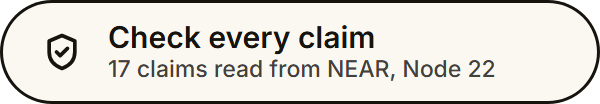
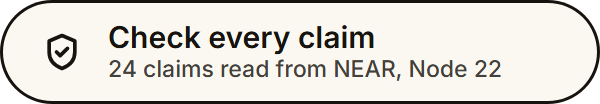
docs: second review of the address docs, badge count
A second review (2 lenses, 2 skeptics per finding) of the doc fixes kept
7 findings and split on 3; all are fixed:

- quickstart, clean-transfer-report: the CLI the page runs (0.1.0)
  still reads the address through the RPC; said where it is claimed.
- rpc-and-finality: the address is the one answer not from an RPC.
- README step 2 and security.mdx: "deployed and locked the Satchel
  contract"; the step 2 output is dated 2026-11-10.
- The package README and the docs say which satchel is yours still
  comes from the NEAR RPC, or for a mint from the wallet.
- CHANGELOG: the older "not fixed" note now says the address was
  derived locally since.
- The token page caption speaks of this satchel's address only.
- The README badge said 17 claims; it now says 24 (13 + 11), re-rendered
  from docs/assets/src/buttons.html.

Changed region(s): [[0.18, 0.5481, 0.84, 0.7788]]

diff --git a/docs/assets/src/buttons.html b/docs/assets/src/buttons.html
@@ -20,7 +20,7 @@
 <body>
   <a id="try" class="dark"><svg viewBox="0 0 24 24" fill="none" stroke="currentColor" stroke-width="2" stroke-linecap="round" stroke-linejoin="round"><circle cx="12" cy="12" r="9"/><path d="M3 12h18M12 3a14 14 0 0 1 0 18M12 3a14 14 0 0 0 0 18"/></svg><span><b>Try it live</b><small>satchelnft.xyz · reading needs no wallet</small></span></a>
   <a id="evaluate" class="gold"><svg viewBox="0 0 24 24" fill="none" stroke="currentColor" stroke-width="2" stroke-linecap="round" stroke-linejoin="round"><circle cx="12" cy="13" r="8"/><path d="M12 9v4l2.5 2.5M9 2h6"/></svg><span><b>Evaluate in 5 minutes</b><small>no wallet, no key, no account</small></span></a>
-  <a id="claims" class="line"><svg viewBox="0 0 24 24" fill="none" stroke="currentColor" stroke-width="2" stroke-linecap="round" stroke-linejoin="round"><path d="M9 12l2 2 4-4"/><path d="M12 3l7 3v6c0 4.5-3 7.5-7 9-4-1.5-7-4.5-7-9V6z"/></svg><span><b>Check every claim</b><small>17 claims read from NEAR, Node 22</small></span></a>
+  <a id="claims" class="line"><svg viewBox="0 0 24 24" fill="none" stroke="currentColor" stroke-width="2" stroke-linecap="round" stroke-linejoin="round"><path d="M9 12l2 2 4-4"/><path d="M12 3l7 3v6c0 4.5-3 7.5-7 9-4-1.5-7-4.5-7-9V6z"/></svg><span><b>Check every claim</b><small>24 claims read from NEAR, Node 22</small></span></a>
   <script>document.getElementById(location.hash.slice(1) || "try").classList.add("on");</script>
 </body>
 </html>

diff --git a/web/src/components/token-view.tsx b/web/src/components/token-view.tsx
@@ -85,7 +85,7 @@ export function TokenView({ tokenId }: { tokenId: string }) {
             </div>
             <p className="mt-1 text-xs text-muted">
               Derived in your browser from the MPC network&apos;s root key, the contract and the path{" "}
-              <span className="font-mono">{view.path}</span>. No RPC answer goes into it.
+              <span className="font-mono">{view.path}</span>, so no RPC answer can change this satchel&apos;s address.
             </p>
             <h2 className="mt-5 font-display text-xl font-semibold">What&apos;s inside</h2>
             <div className="mt-3">

diff --git a/README.md b/README.md
@@ -16,7 +16,7 @@
 
 <a href="https://satchelnft.xyz"><img src="docs/assets/readme/try-it-live.png" alt="Try it live: satchelnft.xyz, reading needs no wallet" height="48"></a>
 <a href="#how-to-evaluate-satchel-in-5-minutes"><img src="docs/assets/readme/evaluate-in-5-minutes.png" alt="Evaluate in 5 minutes: no wallet, no key, no account" height="48"></a>
-<a href="AGENTS.md#check-the-claims"><img src="docs/assets/readme/check-every-claim.png" alt="Check every claim: 17 claims read from NEAR, with Node 22" height="48"></a>
+<a href="AGENTS.md#check-the-claims"><img src="docs/assets/readme/check-every-claim.png" alt="Check every claim: 24 claims read from NEAR, with Node 22" height="48"></a>
 
 **[Live app](https://satchelnft.xyz)** · **[Evaluate in 5 minutes](#how-to-evaluate-satchel-in-5-minutes)** · **[What is shipped](#status)** · **[On-chain proof](#on-chain-proof)** · **[Built on NEAR](#built-on-near)** · **[Threat model](docs/THREAT_MODEL.md)** · **[For AI agents](AGENTS.md)** · **[Security](SECURITY.md)** · **[Changelog](CHANGELOG.md)**
 
@@ -77,7 +77,8 @@ and with it the address on every one of those chains.
 
 You need Node.js 22 or later and git. No wallet, no key and no account: every step reads public NEAR
 and Sepolia data through public RPC nodes. The timings and outputs below are from a fresh clone on a
-Windows 10 laptop with Node 24.12, on 2026-11-09.
+Windows 10 laptop with Node 24.12, on 2026-11-09; the claim checker's output in step 2 is from
+2026-11-10.
 
 **Before you install anything: try to cheat a buyer in your browser.** Open
 [satchelnft.xyz/#examples](https://satchelnft.xyz/#examples) and pick **Keep a signed withdrawal**.
@@ -100,7 +101,7 @@ the record changed).
 2. **Check both deployments against the chain.** No install.
    [`scripts/check-claims.mjs`](scripts/check-claims.mjs) reads the contract's keys, code hash,
    NEP-330 metadata and MPC signer, and the MPC contract's root key and the key it derives for each
-   satchel, from a public NEAR RPC node, and the transactions that deployed
+   satchel, from a public NEAR RPC node, and the transactions that deployed the Satchel contract
    and locked it from an archival one. On testnet it also reads the calls the contract refused; on
    mainnet, satchel #1's mint and first signature, and that send on Base from a public Base node
    (set `BASE_RPC` to use your own). Each run took 5 to 17 s here, most of it waiting on the archival
@@ -294,7 +295,7 @@ What exists at this commit, and what does not yet.
 | The first satchel on mainnet: funded on Base, minted, one send from it in the app, its report clean | **Shipped** on 2026-11-09: satchel #1, 0.00195 ETH on Base, 0.0001 ETH sent from it at satchelnft.xyz, `PROVABLY CLEAN`. The owner signed every transaction | [`deployments/mainnet-first-send.json`](deployments/mainnet-first-send.json) |
 | npm package `satchel-nft`: the report as a library and a CLI (`npx -y satchel-nft@0.1.0 verify 1`), with read commands and signing commands that use the near CLI's keychain | **Shipped** on npm as [`satchel-nft` 0.1.0](https://www.npmjs.com/package/satchel-nft), published by the owner on 2026-11-09 from commit `728ed74`, without npm provenance ([how to check it](docs/THREAT_MODEL.md#what-satchel-trusts)). The web app runs on the same code. `npx -y satchel-nft@0.1.0 verify 1` in an empty folder printed `PROVABLY CLEAN`. CI packs the package, installs the tarball in an empty project and runs it, then runs the release from npm on Linux. Every sign command ran on testnet, and an adversarial review of its signing found no way to make it send a transaction other than the one it shows | [`packages/satchel-nft`](packages/satchel-nft), [`deployments/testnet-cli.json`](deployments/testnet-cli.json) |
 | What's inside a satchel: its USDC, USDT and WETH balances beside the native ones on each chain, and a timeline of mints, owners, signatures and sales on its page | **Shipped** on 2026-11-10. Above the report, a satchel's page shows its native balance on each of the network's 8 chains, and its USDC, USDT and WETH where a deployment is listed: 22 on the mainnets, 11 on the testnets (no testnet USDT). Each comes from Circle, Tether, USDT0 or the chain itself, except WETH on Sepolia, from Uniswap's deployment list; the sources are in `contents.ts`. After `npm ci` and `npm run build -w satchel-nft`, `node scripts/check-tokens.mjs` reads every one's code, symbol and decimals back from its chain. Below the report, its history: mint, transfers, signatures, listings and sales from FastNEAR's transaction index, each linked to its transaction. The report reads neither. In the CLI, `show` prints the same balances and `history <id>` the timeline; both come with the next npm release, not 0.1.0 | [`contents.ts`](packages/satchel-nft/src/contents.ts), [`history.ts`](packages/satchel-nft/src/history.ts), [`check-tokens.mjs`](scripts/check-tokens.mjs) |
-| A satchel's address derived without an RPC | **Shipped** on 2026-11-10. The app and the CLI compute each satchel's key from the MPC network's root key, pinned in the package, the contract and the path, as the MPC contract does, so no RPC answer changes a satchel's address. Which satchel is yours (the id a mint returns, the tokens you own) still comes from the NEAR RPC. The tests derive the keys of all 8 satchels and get what the MPC contract's `derived_public_key` returned, and `check-claims.mjs` compares the pinned root key with the chain. `satchel-nft` 0.1.0 on npm still reads the address through the NEAR RPC; the next release derives it | [`evm.ts`](packages/satchel-nft/src/evm.ts), [`derived-keys.json`](packages/satchel-nft/src/__fixtures__/derived-keys.json) |
+| A satchel's address derived without an RPC | **Shipped** on 2026-11-10. The app and the CLI compute each satchel's key from the MPC network's root key, pinned in the package, the contract and the path, as the MPC contract does, so no RPC answer changes a satchel's address. Which satchel is yours (the id a mint returns, the tokens you own) still comes from the NEAR RPC, or for a mint from the wallet. The tests derive the keys of all 8 satchels and get what the MPC contract's `derived_public_key` returned, and `check-claims.mjs` compares the pinned root key with the chain. `satchel-nft` 0.1.0 on npm still reads the address through the NEAR RPC; the next release derives it | [`evm.ts`](packages/satchel-nft/src/evm.ts), [`derived-keys.json`](packages/satchel-nft/src/__fixtures__/derived-keys.json) |
 | Demo kit: the video script, the X post and the submission text | **Written** on 2026-11-10, and checked against the hackathon's limits by `node scripts/check-demo-kit.mjs`. The video isn't recorded yet | [`docs/DEMO.md`](docs/DEMO.md), [`docs/submission`](docs/submission) |
 | Third-party audit | **Not done** | [`SECURITY.md`](SECURITY.md) |
 
@@ -453,7 +454,7 @@ flowchart LR
 | **A fixed chain list** | Only the 16 chain ids in `SUPPORTED_CHAINS` can be signed for, so every record is checkable | `SUPPORTED_CHAINS` in [`evm.rs`](contracts/satchel/src/evm.rs) | `sign_evm_refuses_an_unsupported_chain`, `every_supported_chain_can_be_signed_for` |
 | **The four checks** | Each chain read at a finalized block; anything unreadable is "unknown", never a pass | `contractCheck`, `pendingCheck`, `approvalsCheck`, `countersCheck` in [`report.ts`](packages/satchel-nft/src/report.ts), [`approvals.ts`](packages/satchel-nft/src/approvals.ts) | [`report.test.ts`](packages/satchel-nft/src/report.test.ts), [`approvals.test.ts`](packages/satchel-nft/src/approvals.test.ts) |
 | **App and CLI guards** | No address and no signature until the network's contract passes check 1; only this network's contract, from an account on this network; no transfer to an account that doesn't exist | `assertDeployment`, `assertTxFor`, `assertReceiver` in [`guard.ts`](packages/satchel-nft/src/guard.ts) | [`guard.test.ts`](packages/satchel-nft/src/guard.test.ts) |
-| **Addresses without an RPC** | Each satchel's key is derived in the app (and the CLI, from the next npm release) from the MPC network's root key, pinned in the package, the contract and the path, so no RPC answer changes the address of a given satchel. Which satchel is yours still comes from the NEAR RPC | `deriveMpcKey`, `tokenAddress` in [`evm.ts`](packages/satchel-nft/src/evm.ts), `mpcRootKey` in [`config.ts`](packages/satchel-nft/src/config.ts) | [`evm.test.ts`](packages/satchel-nft/src/evm.test.ts), `node scripts/check-claims.mjs` |
+| **Addresses without an RPC** | Each satchel's key is derived in the app (and the CLI, from the next npm release) from the MPC network's root key, pinned in the package, the contract and the path, so no RPC answer changes the address of a given satchel. Which satchel is yours still comes from the NEAR RPC, or for a mint from the wallet | `deriveMpcKey`, `tokenAddress` in [`evm.ts`](packages/satchel-nft/src/evm.ts), `mpcRootKey` in [`config.ts`](packages/satchel-nft/src/config.ts) | [`evm.test.ts`](packages/satchel-nft/src/evm.test.ts), `node scripts/check-claims.mjs` |
 | **Check before broadcast** | A send checks that the contract's `evm_signing_hash` equals viem's hash of the same transaction, and that the MPC signature recovers to the satchel's address, before it broadcasts | `sendFromSatchel` in [`send.ts`](packages/satchel-nft/src/send.ts) | [`send.test.ts`](packages/satchel-nft/src/send.test.ts) |
 | **CLI signing** | The near CLI only signs. `satchel-nft` runs it by its absolute path, decodes what it signed and compares the signer, receiver, method, arguments, gas and deposit with what it asked for; it shows the transaction, sends it only after `yes` (or `--yes`), and exits 3 with the hash when it can't read the outcome | `resolveNearCli`, `decodeSignedTx`, `assertSignedAsAsked` in [`near-cli.ts`](packages/satchel-nft/src/near-cli.ts); `submit` in [`cli.ts`](packages/satchel-nft/src/cli.ts) | [`near-cli.test.ts`](packages/satchel-nft/src/near-cli.test.ts), and on testnet ([`testnet-cli.json`](deployments/testnet-cli.json)) |
 

diff --git a/CHANGELOG.md b/CHANGELOG.md
@@ -12,8 +12,9 @@ All notable changes to Satchel. The format follows [Keep a Changelog](https://ke
   and the path (`deriveMpcKey` in `evm.ts`). The root key of each network is pinned in `config.ts`
   (`mpcRootKey`), so `tokenAddress`, which the app, the CLI and the report use, reads nothing: a lying
   NEAR RPC can no longer change the address of a given satchel. Which satchel is yours (the id a mint
-  returns, the tokens an account owns) still comes from the NEAR RPC, and the threat model says so
-  (row 21g). The token page says under the address that it was derived in the browser. The tests derive the keys of all 8 satchels on both networks and get
+  returns, the tokens an account owns) still comes from the NEAR RPC, or for a mint from the wallet,
+  and the threat model says so (row 21g). The token page says under the address that it was derived
+  in the browser. The tests derive the keys of all 8 satchels on both networks and get
   what `derived_public_key` returned (`__fixtures__/derived-keys.json`, 14 new tests, 128 in all), and
   `check-claims.mjs` has two new claims on each network: the pinned root key is the MPC contract's
   `public_key`, and the fixture's keys are its `derived_public_key` (13 claims on testnet, 11 on
@@ -253,9 +254,9 @@ All notable changes to Satchel. The format follows [Keep a Changelog](https://ke
   as done only once its status is final; a transaction sent but not read back exits 3 with its hash,
   where it exited as "could not run" and invited a second send; input that ends before an answer is
   a no, where it exited 0; it asks only when both stdin and stderr are terminals; a byte order mark
-  in the signed transaction fails the comparison; `--as` must be a NEAR account id. Not fixed, and
-  in the threat model: a satchel's address still comes from one NEAR RPC, and with `--yes` nothing
-  caps a send's fee.
+  in the signed transaction fails the comparison; `--as` must be a NEAR account id. Not fixed then,
+  and in the threat model: a satchel's address came from one NEAR RPC (derived locally since, not in
+  0.1.0; see Added), and with `--yes` nothing caps a send's fee.
 - From two internal reviews of mainnet (one adversarial, on the money path): the app signs nothing
   for a network's contract and shows no address derived from it until the contract passes its check
   (the account exists, runs the reproducible build, has no keys and signs through the canonical MPC

diff --git a/packages/satchel-nft/README.md b/packages/satchel-nft/README.md
@@ -146,8 +146,10 @@ Base. A NEAR RPC that serves the other network stops the run; an EVM RPC that se
 counts as unreadable, so the report can't read clean. A satchel's address comes from no RPC: the
 package derives its key from the MPC network's root key, pinned in `TESTNET` and `MAINNET`, the
 contract and the path, as the MPC contract's `derived_public_key` view does (0.1.0 still reads that
-view through the NEAR RPC). A send's fees and nonce come from the chain's RPC. The prompt shows
-both before you agree; with `--yes`, nothing caps the fees.
+view through the NEAR RPC). Which satchel is yours, the id `mint` returns and each satchel's owner,
+still comes from the NEAR RPC: before funding much, check the owner on NearBlocks or your own node.
+A send's fees and nonce come from the chain's RPC. The prompt shows both before you agree; with
+`--yes`, nothing caps the fees.
 
 What a report can't see, and every attack it is built against, is in the repository's
 [threat model](https://github.com/duongnq2798/satchel/blob/main/docs/THREAT_MODEL.md).
